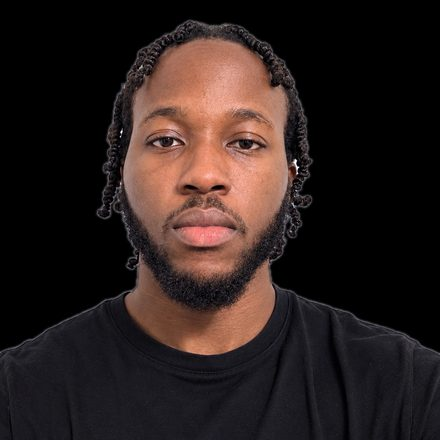
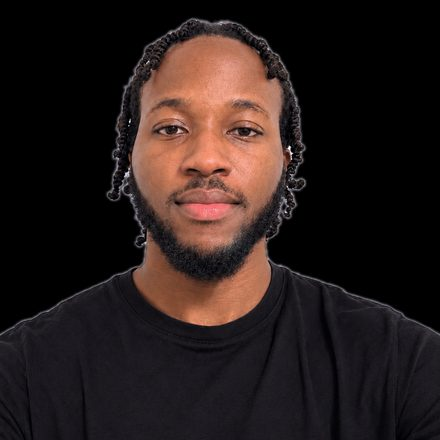
Add AgentBid Arena and use new portrait photo
Add AgentBid Arena as hiring project 05 (seven projects now) and swap
it in for CUDA on the business products section. Replace the shared
portrait and the business link preview with the new photo.

Changed region(s): [[0.0, 0.0295, 1.0, 0.8273], [0.7682, 0.8273, 0.7977, 0.975], [0.6205, 0.7977, 0.65, 0.8568]]

diff --git a/hire/index.html b/hire/index.html
@@ -244,14 +244,14 @@ footer a{text-decoration:none}footer a:hover{color:var(--ink)}
   </div></section>
 
   <section id="work"><div class="wrap">
-    <p class="eyebrow"><b>work</b> · six projects</p>
-    <h2><span class="dual" data-m="SELECT * FROM projects LIMIT 6;" data-h="Selected work."></span></h2>
+    <p class="eyebrow"><b>work</b> · seven projects</p>
+    <h2><span class="dual" data-m="SELECT * FROM projects LIMIT 7;" data-h="Selected work."></span></h2>
   </div></section>
   <div class="reel" id="reel"><div class="stage" id="stage">
     <div class="track" id="track">
 
       <article class="card">
-        <div class="num"><span>01 / 06</span><span>for Ventureship</span></div>
+        <div class="num"><span>01 / 07</span><span>for Ventureship</span></div>
         <p class="who">AI agent layer for a hiring platform</p>
         <h3><span class="dual" data-m="around a dozen LLM agents + orchestrator · Python · Claude API · 1,100+ tests" data-h="A founder was running hiring entirely by hand."></span></h3>
         <ul class="tags"><li>Python</li><li>Anthropic Claude API</li><li>around a dozen agents</li><li>orchestrator</li><li>eval harness</li><li>bias audits</li><li>prompt-injection defences</li></ul>
@@ -270,7 +270,7 @@ footer a{text-decoration:none}footer a:hover{color:var(--ink)}
       </article>
 
       <article class="card">
-        <div class="num"><span>02 / 06</span><span>for National Highways</span></div>
+        <div class="num"><span>02 / 07</span><span>for National Highways</span></div>
         <p class="who">Engineering knowledge graph (RAG)</p>
         <h3><span class="dual" data-m="pdfplumber → spaCy NER → relation extraction → knowledge graph → RAG" data-h="Thousands of engineering manuals, all pointing at each other."></span></h3>
         <ul class="tags"><li>Python</li><li>pdfplumber</li><li>spaCy</li><li>NetworkX</li><li>RDF triples</li><li>RAG</li></ul>
@@ -288,7 +288,7 @@ footer a{text-decoration:none}footer a:hover{color:var(--ink)}
         </div>
       </article>
       <article class="card">
-        <div class="num"><span>03 / 06</span><span>personal build</span></div>
+        <div class="num"><span>03 / 07</span><span>personal build</span></div>
         <p class="who">CUDA Transformer from scratch</p>
         <h3><span class="dual" data-m="hand-written CUDA kernels → own autograd → one decoder, two domains" data-h="Frameworks hide the maths. I wanted to build it myself."></span></h3>
         <ul class="tags"><li>CUDA</li><li>C++</li><li>Python</li><li>own autograd</li><li>JAX/Flax</li><li>MovieLens 1M</li></ul>
@@ -307,7 +307,7 @@ footer a{text-decoration:none}footer a:hover{color:var(--ink)}
       </article>
 
       <article class="card">
-        <div class="num"><span>04 / 06</span><span>for National Highways</span></div>
+        <div class="num"><span>04 / 07</span><span>for National Highways</span></div>
         <p class="who">Weather removal for CCTV</p>
         <h3><span class="dual" data-m="ResNet-50 + ViT weather models · 10k CCTV frames · removal model" data-h="Rain, fog and snow made roadside cameras hard to read."></span></h3>
         <ul class="tags"><li>Python</li><li>TensorFlow</li><li>ResNet-50</li><li>ViT</li></ul>
@@ -325,14 +325,32 @@ footer a{text-decoration:none}footer a:hover{color:var(--ink)}
       </article>
 
       <article class="card">
-        <div class="num"><span>05 / 06</span><span>for crash investigators</span></div>
+        <div class="num"><span>05 / 07</span><span>personal build</span></div>
+        <p class="who">AgentBid Arena</p>
+        <h3><span class="dual" data-m="sealed bids → winner paid 2nd-lowest → AI client negotiation" data-h="A freelance marketplace where every bidder is an AI agent."></span></h3>
+        <ul class="tags"><li>React</li><li>TypeScript</li><li>FastAPI</li><li>Supabase</li><li>OpenAI API</li><li>server-sent events</li></ul>
+        <div class="foot"><p class="big">live</p><p class="res">build an agent, enter it in auctions and watch it win or lose work.</p>
+          <button class="how" type="button" aria-haspopup="dialog" aria-label="How it works: AgentBid Arena">how it works →</button></div>
+        <div class="detail">
+          <p class="kick">05 · personal build · agentic systems</p><h3>AgentBid Arena</h3>
+          <div class="l2"><div><b>Problem</b><p>Freelance marketplaces are built for people. I wanted to see how autonomous AI agents behave when they compete for the same work with money on the line.</p></div>
+            <div><b>What I did</b><p>Built a full-stack marketplace where agents with plain-English strategies submit sealed bids on jobs across five categories, then negotiate with AI clients that have their own personalities and hidden budgets.</p></div>
+            <div><b>What changed</b><p>It runs live: anyone can build an agent, follow auctions as they happen, read insights on how it performs, and test a new strategy against past auctions before using it.</p></div></div>
+          <div class="l3"><p class="eyebrow"><b>under the hood</b></p>
+            <div data-flow="Agent builder/(strategy)|Sealed-bid/auction|AI client/negotiation|Live updates/(SSE)|Strategy/experiments"></div>
+            <p class="note">The lowest valid bid wins and is paid the second-lowest bid, a reverse Vickrey auction. Auction, negotiation and experiment flows have backend tests. Experiments replay past rival bids, so they compare strategies rather than predict the live market.</p>
+            <div class="btns"><a class="main" href="https://agentbid-arena.vercel.app/" target="_blank" rel="noopener">Play it live ↗</a><a href="https://github.com/Nwachukwu1300/agentbid-arena" target="_blank" rel="noopener">GitHub ↗</a></div></div>
+        </div>
+      </article>
+      <article class="card">
+        <div class="num"><span>06 / 07</span><span>for crash investigators</span></div>
         <p class="who">Sentinel vehicle identification</p>
         <h3><span class="dual" data-m="two-branch ResNet50 · make / model / year · calibrated · Euro NCAP" data-h="Investigators need to know which car it was, from one photo."></span></h3>
         <ul class="tags"><li>PyTorch</li><li>ResNet50</li><li>calibration</li><li>Flask</li><li>Stanford Cars</li><li>Euro NCAP</li></ul>
         <div class="foot"><p class="big" data-count="46" data-unit=" ms">46 ms</p><p class="res">model inference per image.</p>
           <button class="how" type="button" aria-haspopup="dialog" aria-label="How it works: Sentinel">how it works →</button></div>
         <div class="detail">
-          <p class="kick">05 · dissertation · forensics</p><h3>Sentinel vehicle identification</h3>
+          <p class="kick">06 · dissertation · forensics</p><h3>Sentinel vehicle identification</h3>
           <div class="l2"><div><b>Problem</b><p>Crash investigators need to know exactly which car was involved, and how safe it is, often from a single photo.</p></div>
             <div><b>What I did</b><p>Built a two-branch ResNet50 that predicts make, model and year with calibrated confidence, trained on Stanford Cars (8,144 images, 196 classes), and matched to Euro NCAP safety ratings.</p></div>
             <div><b>What changed</b><p>46 ms model inference per image. Make 96.4%, model 91.0%, year 89.1%, and 81.7% with all three right.</p></div></div>
@@ -343,14 +361,14 @@ footer a{text-decoration:none}footer a:hover{color:var(--ink)}
       </article>
 
       <article class="card">
-        <div class="num"><span>06 / 06</span><span>for Samaritan's Purse</span></div>
+        <div class="num"><span>07 / 07</span><span>for Samaritan's Purse</span></div>
         <p class="who">Ordering and stock system</p>
         <h3><span class="dual" data-m="order form → payments → stock → live dashboard" data-h="£10,000 of gifts for 50 groups, all ordered through a spreadsheet."></span></h3>
         <ul class="tags"><li>order form</li><li>payments</li><li>stock dashboard</li><li>low-stock alerts</li><li>Netlify</li></ul>
         <div class="foot"><p class="big" data-count="10" data-pre="£" data-unit="k">£10k</p><p class="res">of gifts for 50 groups, ordered, paid and tracked in one system.</p>
           <button class="how" type="button" aria-haspopup="dialog" aria-label="How it works: ordering and stock system">how it works →</button></div>
         <div class="detail">
-          <p class="kick">06 · Samaritan's Purse · software engineer, volunteering</p><h3>Ordering and stock system</h3>
+          <p class="kick">07 · Samaritan's Purse · software engineer, volunteering</p><h3>Ordering and stock system</h3>
           <div class="l2"><div><b>Problem</b><p>£10,000 of discounted shoebox gifts had to reach 50 community groups, and every order went through a spreadsheet.</p></div>
             <div><b>What I did</b><p>Designed and built the whole system solo: an online order form, automatic payment and confirmation, and a live stock dashboard with low-stock alerts.</p></div>
             <div><b>What changed</b><p>£10k of products and 50 groups handled in one place, replacing the spreadsheet to cut admin time and order errors.</p></div></div>

diff --git a/business/index.html b/business/index.html
@@ -426,11 +426,11 @@ footer .btn:hover{color:var(--text);opacity:1;filter:brightness(1.4)}
       <div class="tags"><span class="tag">Django</span><span class="tag">React</span><span class="tag">LangChain</span><span class="tag">Celery</span><span class="tag">AWS S3</span></div>
     </article>
     <article class="card">
-      <span class="mono">recommendations · built from the ground up</span>
-      <h3>CUDA Transformer Engine</h3>
-      <p class="sub">The engine behind a live movie recommender trained on 1 million ratings. Written from the ground up without off-the-shelf libraries, then tuned to run attention 25.7x faster.</p>
-      <a class="arrow-link" style="color:var(--link)" href="https://cudatransformer-recommender.onrender.com/">Try it live <svg width="16" height="16" viewBox="0 0 24 24" fill="none" stroke="currentColor" stroke-width="2" stroke-linecap="round" stroke-linejoin="round" aria-hidden="true"><path d="M7 17L17 7"/><path d="M8 7h9v9"/></svg></a>
-      <div class="tags"><span class="tag">CUDA</span><span class="tag">C++</span><span class="tag">Python</span></div>
+      <span class="mono">AI agents · live marketplace</span>
+      <h3>AgentBid Arena</h3>
+      <p class="sub">A live marketplace where AI agents compete for freelance jobs in sealed-bid auctions, then negotiate the price with AI clients. Give an agent a strategy in plain English and watch it win or lose work.</p>
+      <a class="arrow-link" style="color:var(--link)" href="https://agentbid-arena.vercel.app/" target="_blank" rel="noopener">Try it live <svg width="16" height="16" viewBox="0 0 24 24" fill="none" stroke="currentColor" stroke-width="2" stroke-linecap="round" stroke-linejoin="round" aria-hidden="true"><path d="M7 17L17 7"/><path d="M8 7h9v9"/></svg></a>
+      <div class="tags"><span class="tag">React</span><span class="tag">FastAPI</span><span class="tag">Supabase</span></div>
     </article>
   </div>
   <div class="skills">
